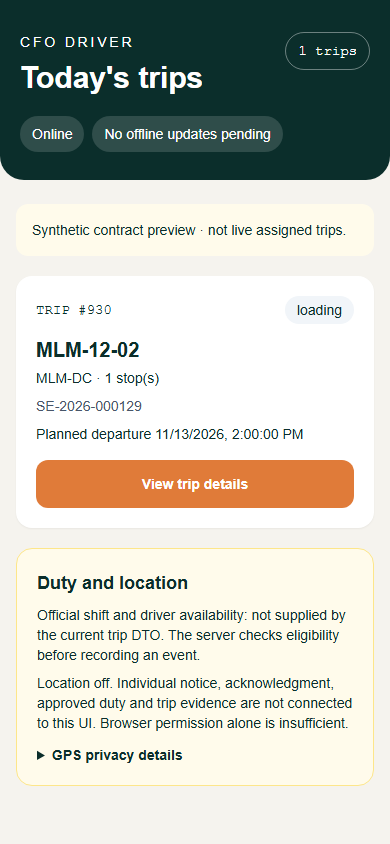
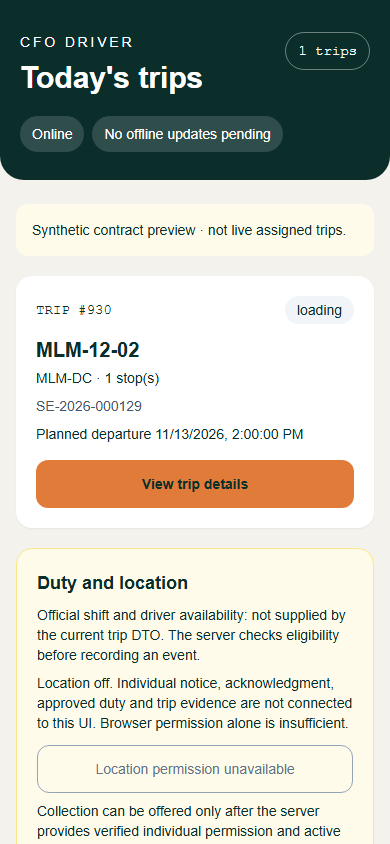
fix(driver-pwa): use design tokens and accessible button contrast

Changed region(s): [[0.0923, 0.8626, 0.8615, 1.0], [0.3692, 0.5545, 0.6462, 0.5853], [0.0308, 0.9242, 0.0615, 0.955]]

diff --git a/frontend/src/features/driver/TodaysTrips.tsx b/frontend/src/features/driver/TodaysTrips.tsx
@@ -40,8 +40,8 @@ export function TodaysTrips() {
   const trips = list.data ?? [];
   const chosen = selectedId === null ? null : detail.data;
 
-  return <main data-screen="TodaysTrips" className="min-h-screen bg-[#F5F3EE] text-[#0B2E2B]">
-    <header className="rounded-b-3xl bg-[#0B2E2B] px-5 pb-7 pt-8 text-white">
+  return <main data-screen="TodaysTrips" className="min-h-screen bg-stone text-deepPine">
+    <header className="rounded-b-3xl bg-deepPine px-5 pb-7 pt-8 text-white">
       <div className="mx-auto flex max-w-2xl items-start justify-between gap-3">
         <div><p className="text-sm uppercase tracking-[0.2em]">CFO Driver</p><h1 className="mt-2 text-3xl font-bold">Today&apos;s trips</h1></div>
         <span className="rounded-full border border-white/40 px-3 py-2 font-mono text-sm">{chosen?.vehicle_code ?? `${trips.length} trips`}</span>
@@ -67,7 +67,7 @@ export function TodaysTrips() {
             <p className="mt-1">{trip.warehouse_code} · {trip.stops.length} stop(s)</p>
             <p className="mt-2 text-sm text-slate-600">{trip.stops.map(stop => stop.order_no).join(" · ")}</p>
             <p className="mt-2 text-sm">Planned departure {new Date(trip.depart_planned_at).toLocaleString()}</p>
-            <button className="mt-4 min-h-12 w-full rounded-xl bg-[#E07B39] px-4 py-3 font-semibold text-white" onClick={() => setSelectedId(trip.trip_id)}>View trip details</button>
+            <button className="mt-4 min-h-12 w-full rounded-xl bg-apricot px-4 py-3 font-semibold text-deepPine" onClick={() => setSelectedId(trip.trip_id)}>View trip details</button>
           </article>)}
         <section className="rounded-2xl border border-amber-200 bg-amber-50 p-5" aria-label="Duty and location privacy">
           <h2 className="text-lg font-semibold">Duty and location</h2>

diff --git a/frontend/src/features/driver/TripDetail.tsx b/frontend/src/features/driver/TripDetail.tsx
@@ -8,7 +8,7 @@ const FAILURE_REASONS = [
   ["refused", "Delivery refused"], ["wrong_address", "Wrong address"],
   ["vehicle_breakdown", "Vehicle breakdown"], ["goods_damaged", "Goods damaged"], ["other", "Other"],
 ] as const;
-const button = "min-h-12 w-full rounded-xl bg-[#E07B39] px-5 py-3 text-base font-semibold text-white disabled:cursor-not-allowed disabled:opacity-50";
+const button = "min-h-12 w-full rounded-xl bg-apricot px-5 py-3 text-base font-semibold text-deepPine disabled:cursor-not-allowed disabled:opacity-50";
 
 interface Props { trip: DriverTrip; driverUserId: number; online: boolean; mock: boolean; onBack: () => void; onUpdated: () => void; onSaved: () => void }
 export function TripDetail({ trip, driverUserId, online, mock, onBack, onUpdated, onSaved }: Props) {
@@ -60,8 +60,8 @@ export function TripDetail({ trip, driverUserId, online, mock, onBack, onUpdated
   }
 
   return <section aria-label="Trip detail" className="mx-auto max-w-2xl space-y-5 px-4 pb-12 pt-5 text-base">
-    <button className="min-h-12 text-[#0B2E2B] underline" onClick={onBack}>← Today&apos;s trips</button>
-    <div className="rounded-2xl bg-[#0B2E2B] p-5 text-white">
+    <button className="min-h-12 text-deepPine underline" onClick={onBack}>← Today&apos;s trips</button>
+    <div className="rounded-2xl bg-deepPine p-5 text-white">
       <p className="text-sm uppercase tracking-widest">Trip #{trip.trip_id} · {trip.status}</p>
       <h1 className="mt-2 text-2xl font-semibold">{trip.vehicle_code}</h1>
       <p>From {trip.warehouse_code} · planned {new Date(trip.depart_planned_at).toLocaleString()}</p>
